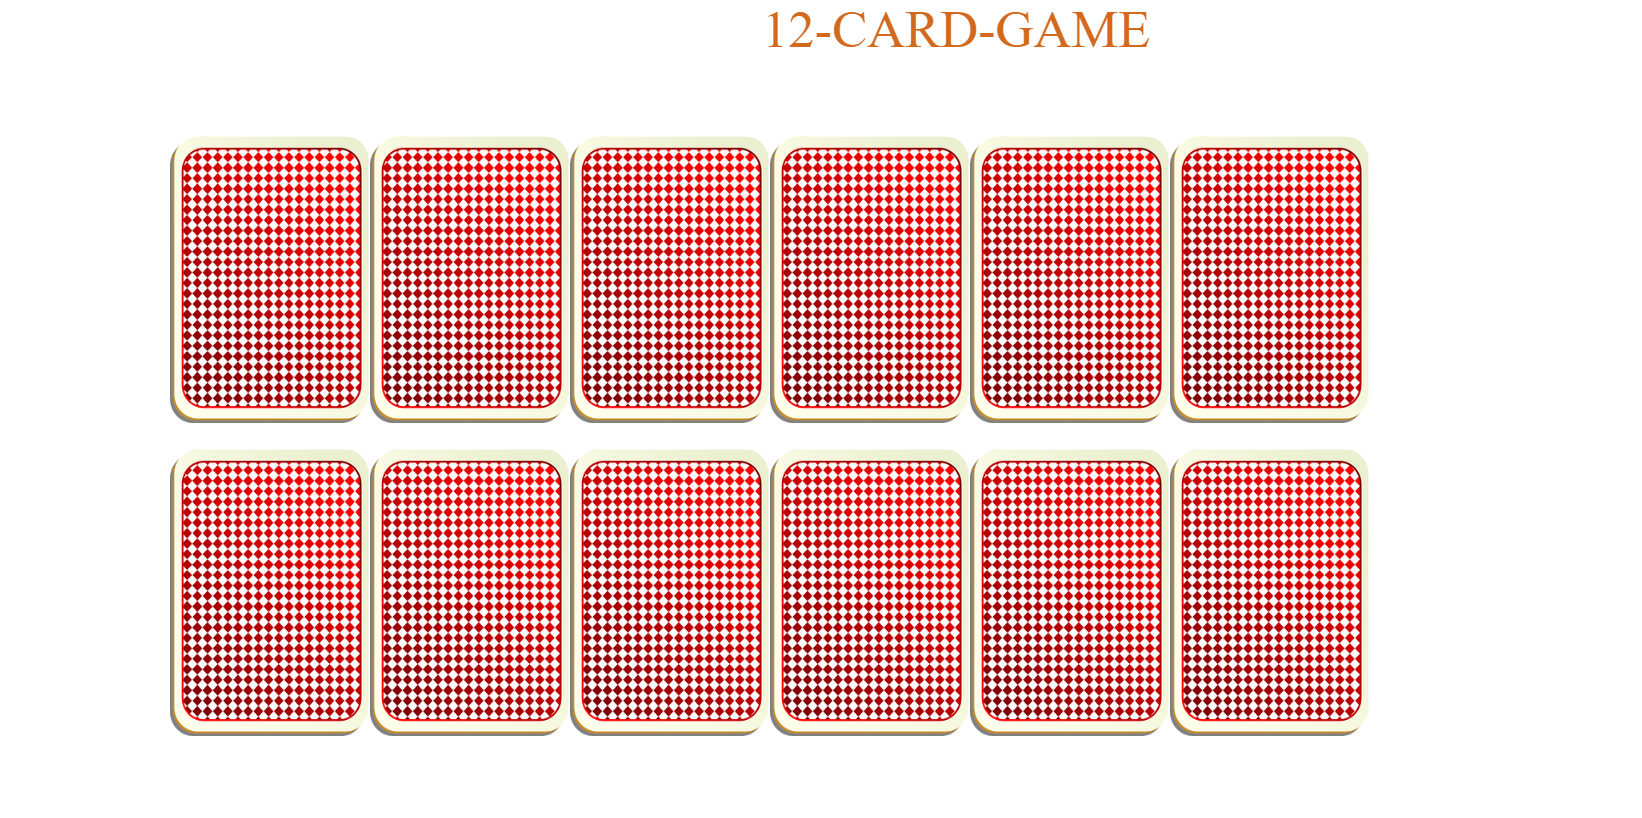
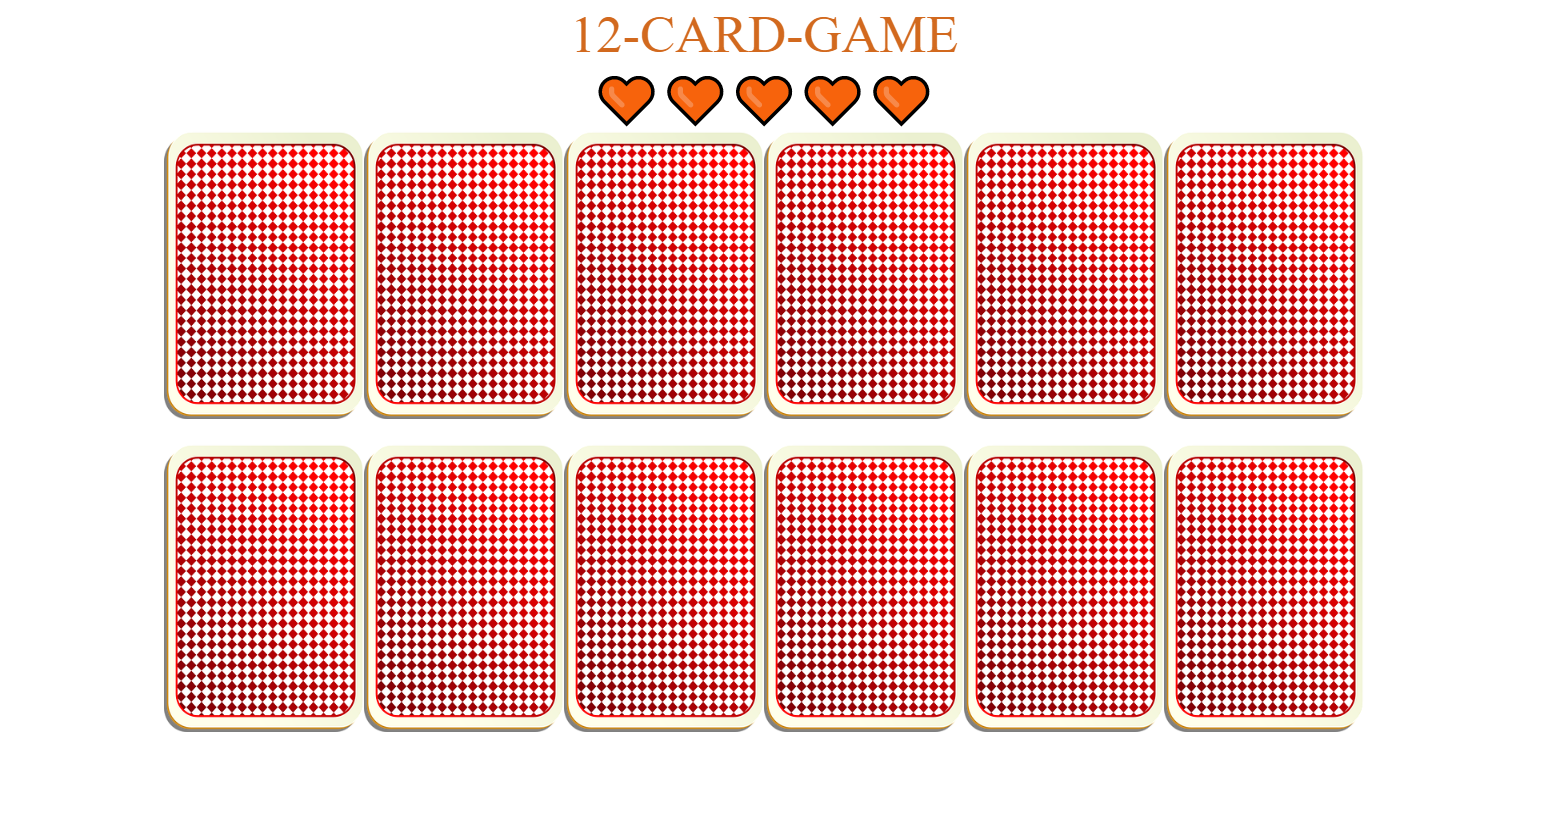
Add files via upload

diff --git a/day10/day10.js b/day10/day10.js
@@ -1,5 +1,7 @@
 var deck=['/cards/AH.jpg','/cards/5D.jpg','/cards/10C.jpg','/cards/7H.jpg','/cards/JD.jpg','/cards/QH.jpg','/cards/AH.jpg','/cards/5D.jpg','/cards/10C.jpg','/cards/7H.jpg','/cards/JD.jpg','/cards/QH.jpg']
 var flippedcards=[];
+var chances=5
+var hearts="";
 var flipped=false;
 var hidden=0;
 var active=true;
@@ -11,25 +13,41 @@ backcards.forEach(card => {
     deck.splice(temp,1);
 });
 backcards.forEach(card => {card.addEventListener('click',() =>{
+    if(flippedcards.length>0){
+        var a=flippedcards[0];
+    }
     if(active==true){
+        if(a!=card){
     card.querySelector(".back").classList.toggle('flip');
     card.querySelector(".card").classList.toggle('flip');
     if(flipped==true){
         active=false;
         setTimeout(function(){
         flipped=false;
-        var a=flippedcards[0];
         if(a.id ===card.id){
-            a.setAttribute("style","visibility:hidden;");;
+            a.setAttribute("style","visibility:hidden;");
             card.setAttribute("style","visibility:hidden;");
+            card.classList.add("dummy");
             hidden+=2;
             flippedcards.splice(0,1);
         }
         else{
             if(flippedcards.length>0){
+            a.classList.remove("dummy");
             a.querySelector(".card.flip").classList.toggle('flip');
             a.querySelector(".back.flip").classList.toggle('flip');
         }
+            chances-=1;
+            hearts="";
+            if(chances===0){
+                alert("Stupid ,you lose the GAME");
+                setTimeout(function(){window.location.reload();},250);
+            }
+            for (let i = 0; i < chances; i++) {
+                hearts+="&#129505;";
+            }
+            document.querySelector('.chances').innerHTML=hearts;
+            card.classList.remove("dummy");
             card.querySelector(".card.flip").classList.toggle('flip');
             card.querySelector(".back.flip").classList.toggle('flip');
             flippedcards.splice(0,1);
@@ -39,14 +57,15 @@ backcards.forEach(card => {card.addEventListener('click',() =>{
         }
         active=true;
 
-    },2000);
+    },800);
     }
     
     else{
         flipped=true;
         flippedcards.push(card);
+        card.classList.add("dummy");
     }
-}
+}}
 });
 });
 

diff --git a/day10/day10.css b/day10/day10.css
@@ -1,9 +1,3 @@
-/* .removed{
-    position:absolute; 
-    height: 230px;
-    width:160px;
-    background: transparent;
-} */
 .card{ 
     position:absolute; 
     height: 230px;
@@ -11,6 +5,10 @@
     backface-visibility: hidden;
     transition:all 0.5s linear;
     background-size:160px 230px ;
+}
+.chances{
+    font-size: 40px;
+    text-align: center;
 }
 .back{
     position:absolute; 
@@ -31,7 +29,7 @@
 .bigcontainer{
     height: 500px;
     width: 92%;
-    margin:4%;
+    margin:auto;
     max-width: 1100px;
     display: flex;
     flex-wrap: wrap;flex-direction: row;

diff --git a/day10/day10.html b/day10/day10.html
@@ -10,8 +10,8 @@
 
 <body>
     <div class="head">12-CARD-GAME</div>
-
-    <div class="bigcontainer">
+    <div class="chances">&#129505;&#129505;&#129505;&#129505;&#129505;</div>  
+      <div class="bigcontainer">
         <div class="container">
             <div class="back"></div>
             <div class="card"></div>
@@ -76,5 +76,4 @@
     </div>
     <script src="day10.js"></script>
 </body>
-
 </html>
